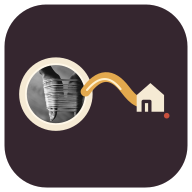
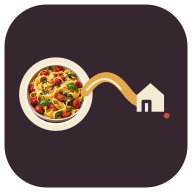
Replace monochrome brand photo with pasta and tomatoes

Changed region(s): [[0.125, 0.3125, 0.4688, 0.6562]]

diff --git a/brand/README.md b/brand/README.md
@@ -1,20 +1,20 @@
 # Brand assets
 
-Mealie Atelier's icon family turns a real handmade-pasta photograph into three practical app marks. The shared plate, pasta and aubergine palette keep the family together; the recipe card and home connection distinguish Cards from Bridge. The artwork uses no generated food imagery or letter monogram.
+Mealie Atelier's icon family uses a warm editorial food photograph of handmade pasta with tomatoes. The shared plate, pasta and aubergine palette keep the family together; the recipe card and home connection distinguish Cards from Bridge.
 
 ## App icons
 
 - `mealie-atelier.svg` is the editable Atelier master. `mealie-atelier.png` is its 1024 × 1024 organization-avatar export.
 - `mealie-atelier-icon-192.png`, `mealie-atelier-icon-512.png`, `mealie-atelier-maskable-512.png` and `mealie-atelier-apple-touch-icon.png` are PWA and Apple exports.
 - `mealie-atelier-cards-icon.svg` and `mealie-atelier-bridge-icon.svg` are the product masters. Each has 192, 512 and 1024 pixel PNG exports.
-- The source photograph is `photographer-davide-ragusa-handmade-pasta.jpg`; its credit is in `CREDITS.md`.
+- The food photograph is `pasta-with-tomatoes.jpg`; image origin is documented in `CREDITS.md`.
 - `mealie-atelier-apple-touch-icon.png` is the 180 × 180 Apple touch icon.
 
 ## Repository previews
 
 - `mealie-atelier-cards-social-preview.png` and `mealie-atelier-bridge-social-preview.png` are 1280 × 640 GitHub previews.
 - The matching SVG files are editable source artwork, with the warm editorial palette carried across both repository previews.
-- The Cards preview pairs the real pasta-making photograph with the Cards app icon.
+- The Cards preview pairs the pasta-and-tomato photograph with the Cards app icon.
 - The Bridge preview presents the recipe-to-kitchen pasta connection icon.
 
 ## Exporting

diff --git a/brand/CREDITS.md b/brand/CREDITS.md
@@ -1,19 +1,14 @@
 # Brand asset credits
 
-## Photography
+## Food imagery
 
-- Cards social preview: Davide Ragusa, [Person making noodles](https://unsplash.com/photos/person-making-noodles-FwiLgvi-2Do), Unsplash License.
-- Organization, Cards and Bridge app icons: Davide Ragusa, [Person making noodles](https://unsplash.com/photos/person-making-noodles-FwiLgvi-2Do), Unsplash License. Each icon uses a crop of the original photograph.
-
-Attribution is not required by the Unsplash License; it is included here to credit the photographer. The three SVG icon masters reference the original local JPEG; PNG sizes are generated from those masters.
+- App icons and Cards social preview: original food photograph generated for Mealie Atelier, depicting handmade pasta with tomatoes and basil.
+- The former Unsplash pasta-making photograph remains in the folder as a legacy source asset; current icon and preview artwork no longer uses it.
 
 ## Export dimensions
 
 - `mealie-atelier.png`: 1024 × 1024 pixel organization icon master.
-- `mealie-atelier-icon-192.png`: 192 × 192 pixel PWA icon.
-- `mealie-atelier-icon-512.png`: 512 × 512 pixel PWA icon.
-- `mealie-atelier-maskable-512.png`: 512 × 512 pixel maskable PWA icon.
-- `mealie-atelier-apple-touch-icon.png`: 180 × 180 pixel Apple touch icon.
+- PWA exports: 192 × 192, 512 × 512 and 512 × 512 maskable.
+- Apple touch icon: 180 × 180 pixels.
 - Each product icon has 192 × 192, 512 × 512 and 1024 × 1024 pixel PNG exports.
-- `mealie-atelier-cards-social-preview.png`: 1280 × 640 pixels, GitHub repository social preview.
-- `mealie-atelier-bridge-social-preview.png`: 1280 × 640 pixels, GitHub repository social preview.
+- Each repository social preview is 1280 × 640 pixels.
